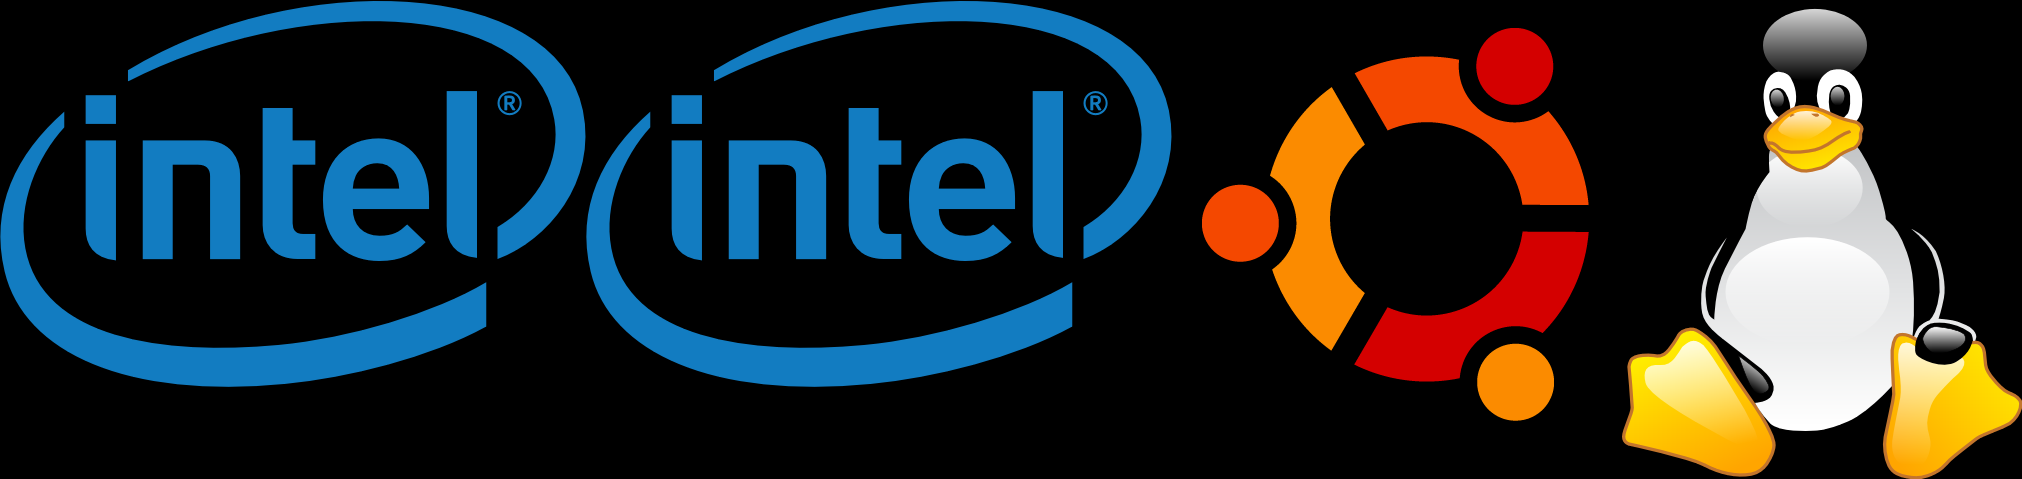
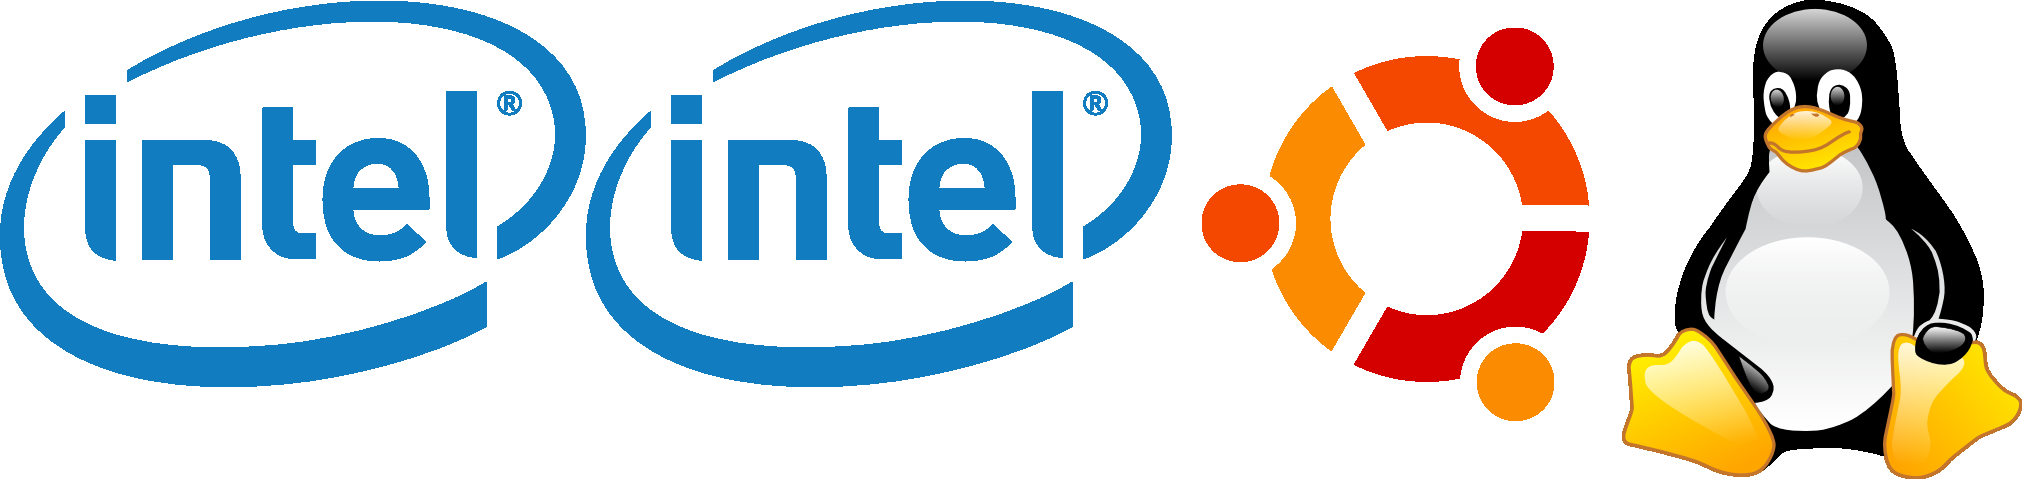
transparency ok

diff --git a/pp.php b/pp.php
@@ -16,6 +16,7 @@ function read_files($folder, &$tab)
     }
 }
 function getSizeOfSprite($tab) {
+
     $totalLargeur = 0;
     $maxHauteur = [];
 
@@ -26,6 +27,11 @@ function getSizeOfSprite($tab) {
     }
     $maxHauteurValue = max($maxHauteur);
     $sprite = imagecreatetruecolor($totalLargeur, $maxHauteurValue);
+    imagealphablending($sprite, false);
+    $col=imagecolorallocatealpha($sprite,255,255,255,127);
+    imagefilledrectangle($sprite,0,0,$totalLargeur, $totalLargeur,$col);
+    imagealphablending($sprite,true);
+
 
     create_sprite($tab, $sprite, $tmp);
 }
